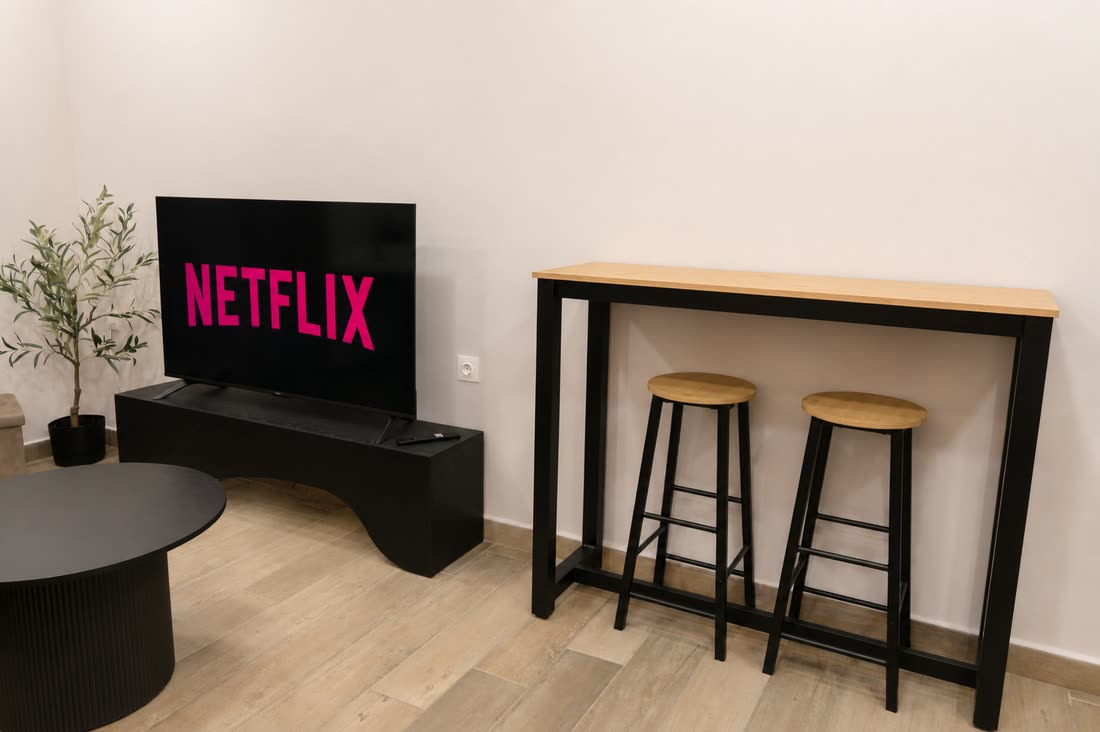
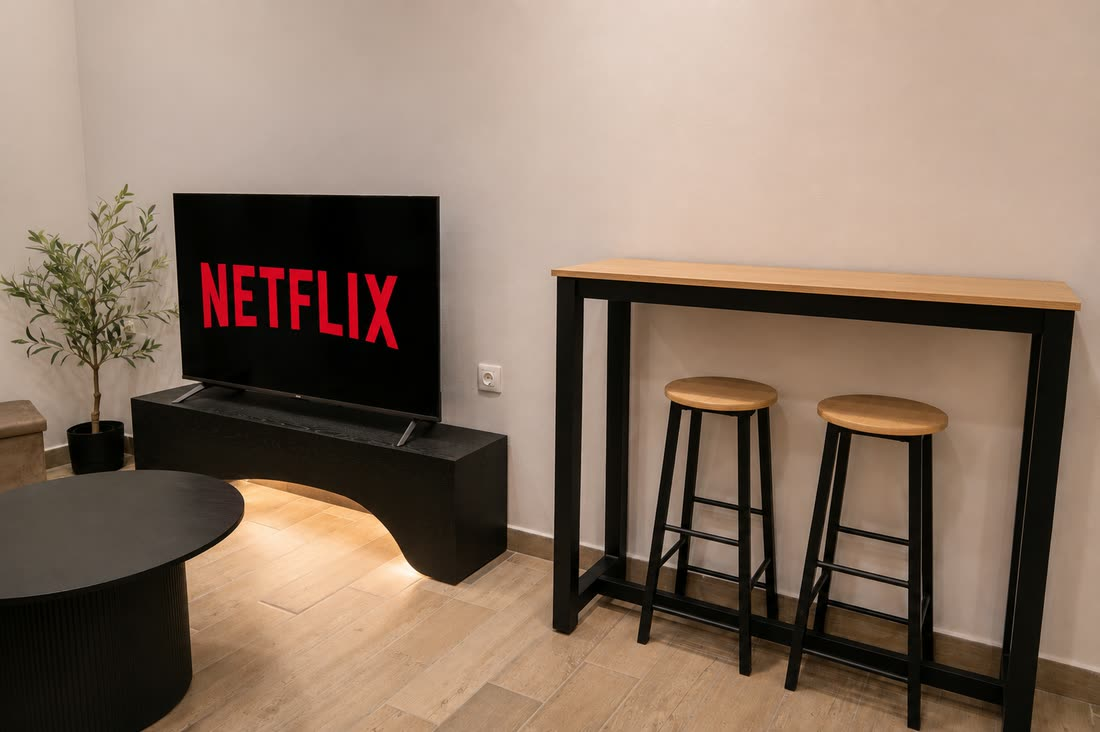
Swap in the reshot living room and add the balcony
The hero and the bar shot were retaken with the plinth lighting on, and the
balcony off the main bedroom was missing entirely — the guide now sends guests
there to smoke and to hang washing, so it needed a photograph.

diff --git a/index.html b/index.html
@@ -166,7 +166,7 @@ footer .arch{width:34px;height:26px;margin:0 auto 8px}
 <section id="gallery"><div class="wrap">
   <div class="eyebrow" data-i18n="gallery_eyebrow">Gallery</div>
   <h2 class="serif" style="font-size:clamp(28px,4vw,40px);margin:10px 0 26px" data-i18n="gallery_h2">Take a look inside</h2>
-  <div class="gal"><a class="gitem" href="assets/img/gal-01.jpg" target="_blank" rel="noopener"><img loading="lazy" decoding="async" src="assets/img/gal-01.jpg" alt="Bedroom with wardrobe, smart TV and dressing table"></a><a class="gitem" href="assets/img/gal-02.jpg" target="_blank" rel="noopener"><img loading="lazy" decoding="async" src="assets/img/gal-02.jpg" alt="Kitchen with oven, hob and retro fridge"></a><a class="gitem" href="assets/img/gal-03.jpg" target="_blank" rel="noopener"><img loading="lazy" decoding="async" src="assets/img/gal-03.jpg" alt="Living room smart TV and breakfast bar"></a><a class="gitem" href="assets/img/gal-04.jpg" target="_blank" rel="noopener"><img loading="lazy" decoding="async" src="assets/img/gal-04.jpg" alt="Double bed with framed prints above the headboard"></a><a class="gitem" href="assets/img/gal-05.jpg" target="_blank" rel="noopener"><img loading="lazy" decoding="async" src="assets/img/gal-05.jpg" alt="Main bedroom seen from the doorway"></a><a class="gitem" href="assets/img/gal-06.jpg" target="_blank" rel="noopener"><img loading="lazy" decoding="async" src="assets/img/gal-06.jpg" alt="Open-plan living room, breakfast bar and hallway"></a><a class="gitem" href="assets/img/gal-07.jpg" target="_blank" rel="noopener"><img loading="lazy" decoding="async" src="assets/img/gal-07.jpg" alt="Crisp white bed linen and knitted throw"></a><a class="gitem" href="assets/img/gal-08.jpg" target="_blank" rel="noopener"><img loading="lazy" decoding="async" src="assets/img/gal-08.jpg" alt="Second bedroom with reading lamp"></a><a class="gitem" href="assets/img/gal-09.jpg" target="_blank" rel="noopener"><img loading="lazy" decoding="async" src="assets/img/gal-09.jpg" alt="Kitchen and sofa with exposed brick archway"></a><a class="gitem" href="assets/img/gal-10.jpg" target="_blank" rel="noopener"><img loading="lazy" decoding="async" src="assets/img/gal-10.jpg" alt="Living area with sofa and smart TV"></a><a class="gitem" href="assets/img/gal-11.jpg" target="_blank" rel="noopener"><img loading="lazy" decoding="async" src="assets/img/gal-11.jpg" alt="Walk-in shower with rain head"></a><a class="gitem" href="assets/img/gal-12.jpg" target="_blank" rel="noopener"><img loading="lazy" decoding="async" src="assets/img/gal-12.jpg" alt="Bathroom with washing machine, basin and shower"></a><a class="gitem" href="assets/img/gal-13.jpg" target="_blank" rel="noopener"><img loading="lazy" decoding="async" src="assets/img/gal-13.jpg" alt="Bedroom with double bed and full-height wardrobe"></a><a class="gitem" href="assets/img/gal-14.jpg" target="_blank" rel="noopener"><img loading="lazy" decoding="async" src="assets/img/gal-14.jpg" alt="Worktop with hob, kettle and coffee machine"></a><a class="gitem" href="assets/img/gal-15.jpg" target="_blank" rel="noopener"><img loading="lazy" decoding="async" src="assets/img/gal-15.jpg" alt="Bedside table with lamp"></a><a class="gitem" href="assets/img/gal-16.jpg" target="_blank" rel="noopener"><img loading="lazy" decoding="async" src="assets/img/gal-16.jpg" alt="Sofa bed in the second room"></a><a class="gitem" href="assets/img/gal-17.jpg" target="_blank" rel="noopener"><img loading="lazy" decoding="async" src="assets/img/gal-17.jpg" alt="Hallway connecting the two bedrooms"></a><a class="gitem" href="assets/img/gal-18.jpg" target="_blank" rel="noopener"><img loading="lazy" decoding="async" src="assets/img/gal-18.jpg" alt="Second bedroom with air conditioning"></a><a class="gitem" href="assets/img/gal-19.jpg" target="_blank" rel="noopener"><img loading="lazy" decoding="async" src="assets/img/gal-19.jpg" alt="Entrance hallway with exposed brick wall"></a><a class="gitem" href="assets/img/gal-20.jpg" target="_blank" rel="noopener"><img loading="lazy" decoding="async" src="assets/img/gal-20.jpg" alt="Double bed made up with fresh towels"></a><a class="gitem" href="assets/img/gal-21.jpg" target="_blank" rel="noopener"><img loading="lazy" decoding="async" src="assets/img/gal-21.jpg" alt="Rolled towels laid out on the bed"></a><a class="gitem" href="assets/img/gal-22.jpg" target="_blank" rel="noopener"><img loading="lazy" decoding="async" src="assets/img/gal-22.jpg" alt="Books and lighting on the headboard shelf"></a><a class="gitem" href="assets/img/gal-23.jpg" target="_blank" rel="noopener"><img loading="lazy" decoding="async" src="assets/img/gal-23.jpg" alt="Washing machine beside the bathroom door"></a><a class="gitem" href="assets/img/gal-24.jpg" target="_blank" rel="noopener"><img loading="lazy" decoding="async" src="assets/img/gal-24.jpg" alt="Sofa with cushions and throw in the living room"></a><a class="gitem" href="assets/img/gal-25.jpg" target="_blank" rel="noopener"><img loading="lazy" decoding="async" src="assets/img/gal-25.jpg" alt="Living room with smart TV and seating"></a><a class="gitem" href="assets/img/gal-26.jpg" target="_blank" rel="noopener"><img loading="lazy" decoding="async" src="assets/img/gal-26.jpg" alt="Bedroom with wall-mounted TV and towels"></a><a class="gitem" href="assets/img/gal-27.jpg" target="_blank" rel="noopener"><img loading="lazy" decoding="async" src="assets/img/gal-27.jpg" alt="Clothes rail and storage"></a><a class="gitem" href="assets/img/gal-28.jpg" target="_blank" rel="noopener"><img loading="lazy" decoding="async" src="assets/img/gal-28.jpg" alt="Smart TV and olive tree in the living room"></a><a class="gitem" href="assets/img/gal-29.jpg" target="_blank" rel="noopener"><img loading="lazy" decoding="async" src="assets/img/gal-29.jpg" alt="Coffee corner with kettle and Nespresso machine"></a><a class="gitem" href="assets/img/gal-30.jpg" target="_blank" rel="noopener"><img loading="lazy" decoding="async" src="assets/img/gal-30.jpg" alt="Welcome card and plant on the worktop"></a><a class="gitem" href="assets/img/gal-31.jpg" target="_blank" rel="noopener"><img loading="lazy" decoding="async" src="assets/img/gal-31.jpg" alt="Shelf and round mirror on the brick wall"></a><a class="gitem" href="assets/img/gal-32.jpg" target="_blank" rel="noopener"><img loading="lazy" decoding="async" src="assets/img/gal-32.jpg" alt="Backlit bathroom mirror"></a><a class="gitem" href="assets/img/gal-33.jpg" target="_blank" rel="noopener"><img loading="lazy" decoding="async" src="assets/img/gal-33.jpg" alt="Living room in the evening light"></a><a class="gitem" href="assets/img/gal-34.jpg" target="_blank" rel="noopener"><img loading="lazy" decoding="async" src="assets/img/gal-34.jpg" alt="Fresh towels on the bathroom counter"></a><a class="gitem" href="assets/img/gal-35.jpg" target="_blank" rel="noopener"><img loading="lazy" decoding="async" src="assets/img/gal-35.jpg" alt="Cupboard stocked with plates, glasses and mugs"></a><a class="gitem" href="assets/img/gal-36.jpg" target="_blank" rel="noopener"><img loading="lazy" decoding="async" src="assets/img/gal-36.jpg" alt="Rain shower head"></a><a class="gitem" href="assets/img/gal-37.jpg" target="_blank" rel="noopener"><img loading="lazy" decoding="async" src="assets/img/gal-37.jpg" alt="Sofa bed with cushion"></a><a class="gitem" href="assets/img/gal-38.jpg" target="_blank" rel="noopener"><img loading="lazy" decoding="async" src="assets/img/gal-38.jpg" alt="Hallway leading to the front door"></a><a class="gitem" href="assets/img/gal-39.jpg" target="_blank" rel="noopener"><img loading="lazy" decoding="async" src="assets/img/gal-39.jpg" alt="Hangers in the wardrobe"></a><a class="gitem" href="assets/img/gal-40.jpg" target="_blank" rel="noopener"><img loading="lazy" decoding="async" src="assets/img/gal-40.jpg" alt="Towels folded on the rack"></a><a class="gitem" href="assets/img/gal-41.jpg" target="_blank" rel="noopener"><img loading="lazy" decoding="async" src="assets/img/gal-41.jpg" alt="Plates and crockery in the kitchen cupboard"></a></div></div></section>
+  <div class="gal"><a class="gitem" href="assets/img/gal-01.jpg" target="_blank" rel="noopener"><img loading="lazy" decoding="async" src="assets/img/gal-01.jpg" alt="Bedroom with wardrobe, smart TV and dressing table"></a><a class="gitem" href="assets/img/gal-02.jpg" target="_blank" rel="noopener"><img loading="lazy" decoding="async" src="assets/img/gal-02.jpg" alt="Kitchen with oven, hob and retro fridge"></a><a class="gitem" href="assets/img/gal-03.jpg" target="_blank" rel="noopener"><img loading="lazy" decoding="async" src="assets/img/gal-03.jpg" alt="Smart TV and breakfast bar with stools"></a><a class="gitem" href="assets/img/gal-04.jpg" target="_blank" rel="noopener"><img loading="lazy" decoding="async" src="assets/img/gal-04.jpg" alt="Double bed with framed prints above the headboard"></a><a class="gitem" href="assets/img/gal-05.jpg" target="_blank" rel="noopener"><img loading="lazy" decoding="async" src="assets/img/gal-05.jpg" alt="Main bedroom seen from the doorway"></a><a class="gitem" href="assets/img/gal-06.jpg" target="_blank" rel="noopener"><img loading="lazy" decoding="async" src="assets/img/gal-06.jpg" alt="Open-plan living room, breakfast bar and hallway"></a><a class="gitem" href="assets/img/gal-07.jpg" target="_blank" rel="noopener"><img loading="lazy" decoding="async" src="assets/img/gal-07.jpg" alt="Crisp white bed linen and knitted throw"></a><a class="gitem" href="assets/img/gal-08.jpg" target="_blank" rel="noopener"><img loading="lazy" decoding="async" src="assets/img/gal-08.jpg" alt="Second bedroom with reading lamp"></a><a class="gitem" href="assets/img/gal-09.jpg" target="_blank" rel="noopener"><img loading="lazy" decoding="async" src="assets/img/gal-09.jpg" alt="Kitchen and sofa with exposed brick archway"></a><a class="gitem" href="assets/img/gal-10.jpg" target="_blank" rel="noopener"><img loading="lazy" decoding="async" src="assets/img/gal-10.jpg" alt="Living area with sofa and smart TV"></a><a class="gitem" href="assets/img/gal-11.jpg" target="_blank" rel="noopener"><img loading="lazy" decoding="async" src="assets/img/gal-11.jpg" alt="Walk-in shower with rain head"></a><a class="gitem" href="assets/img/gal-12.jpg" target="_blank" rel="noopener"><img loading="lazy" decoding="async" src="assets/img/gal-12.jpg" alt="Bathroom with washing machine, basin and shower"></a><a class="gitem" href="assets/img/gal-13.jpg" target="_blank" rel="noopener"><img loading="lazy" decoding="async" src="assets/img/gal-13.jpg" alt="Bedroom with double bed and full-height wardrobe"></a><a class="gitem" href="assets/img/gal-14.jpg" target="_blank" rel="noopener"><img loading="lazy" decoding="async" src="assets/img/gal-14.jpg" alt="Worktop with hob, kettle and coffee machine"></a><a class="gitem" href="assets/img/gal-15.jpg" target="_blank" rel="noopener"><img loading="lazy" decoding="async" src="assets/img/gal-15.jpg" alt="Bedside table with lamp"></a><a class="gitem" href="assets/img/gal-16.jpg" target="_blank" rel="noopener"><img loading="lazy" decoding="async" src="assets/img/gal-16.jpg" alt="Sofa bed in the second room"></a><a class="gitem" href="assets/img/gal-17.jpg" target="_blank" rel="noopener"><img loading="lazy" decoding="async" src="assets/img/gal-17.jpg" alt="Hallway connecting the two bedrooms"></a><a class="gitem" href="assets/img/gal-18.jpg" target="_blank" rel="noopener"><img loading="lazy" decoding="async" src="assets/img/gal-18.jpg" alt="Second bedroom with air conditioning"></a><a class="gitem" href="assets/img/gal-19.jpg" target="_blank" rel="noopener"><img loading="lazy" decoding="async" src="assets/img/gal-19.jpg" alt="Entrance hallway with exposed brick wall"></a><a class="gitem" href="assets/img/gal-20.jpg" target="_blank" rel="noopener"><img loading="lazy" decoding="async" src="assets/img/gal-20.jpg" alt="Double bed made up with fresh towels"></a><a class="gitem" href="assets/img/gal-21.jpg" target="_blank" rel="noopener"><img loading="lazy" decoding="async" src="assets/img/gal-21.jpg" alt="Rolled towels laid out on the bed"></a><a class="gitem" href="assets/img/gal-22.jpg" target="_blank" rel="noopener"><img loading="lazy" decoding="async" src="assets/img/gal-22.jpg" alt="Books and lighting on the headboard shelf"></a><a class="gitem" href="assets/img/gal-23.jpg" target="_blank" rel="noopener"><img loading="lazy" decoding="async" src="assets/img/gal-23.jpg" alt="Washing machine beside the bathroom door"></a><a class="gitem" href="assets/img/gal-24.jpg" target="_blank" rel="noopener"><img loading="lazy" decoding="async" src="assets/img/gal-24.jpg" alt="Sofa with cushions and throw in the living room"></a><a class="gitem" href="assets/img/gal-25.jpg" target="_blank" rel="noopener"><img loading="lazy" decoding="async" src="assets/img/gal-25.jpg" alt="Living room with smart TV and seating"></a><a class="gitem" href="assets/img/gal-26.jpg" target="_blank" rel="noopener"><img loading="lazy" decoding="async" src="assets/img/gal-26.jpg" alt="Bedroom with wall-mounted TV and towels"></a><a class="gitem" href="assets/img/gal-27.jpg" target="_blank" rel="noopener"><img loading="lazy" decoding="async" src="assets/img/gal-27.jpg" alt="Clothes rail and storage"></a><a class="gitem" href="assets/img/gal-28.jpg" target="_blank" rel="noopener"><img loading="lazy" decoding="async" src="assets/img/gal-28.jpg" alt="Smart TV and olive tree in the living room"></a><a class="gitem" href="assets/img/gal-29.jpg" target="_blank" rel="noopener"><img loading="lazy" decoding="async" src="assets/img/gal-29.jpg" alt="Coffee corner with kettle and Nespresso machine"></a><a class="gitem" href="assets/img/gal-30.jpg" target="_blank" rel="noopener"><img loading="lazy" decoding="async" src="assets/img/gal-30.jpg" alt="Welcome card and plant on the worktop"></a><a class="gitem" href="assets/img/gal-31.jpg" target="_blank" rel="noopener"><img loading="lazy" decoding="async" src="assets/img/gal-31.jpg" alt="Shelf and round mirror on the brick wall"></a><a class="gitem" href="assets/img/gal-32.jpg" target="_blank" rel="noopener"><img loading="lazy" decoding="async" src="assets/img/gal-32.jpg" alt="Backlit bathroom mirror"></a><a class="gitem" href="assets/img/gal-33.jpg" target="_blank" rel="noopener"><img loading="lazy" decoding="async" src="assets/img/gal-33.jpg" alt="Living room in the evening light"></a><a class="gitem" href="assets/img/gal-34.jpg" target="_blank" rel="noopener"><img loading="lazy" decoding="async" src="assets/img/gal-34.jpg" alt="Fresh towels on the bathroom counter"></a><a class="gitem" href="assets/img/gal-35.jpg" target="_blank" rel="noopener"><img loading="lazy" decoding="async" src="assets/img/gal-35.jpg" alt="Cupboard stocked with plates, glasses and mugs"></a><a class="gitem" href="assets/img/gal-36.jpg" target="_blank" rel="noopener"><img loading="lazy" decoding="async" src="assets/img/gal-36.jpg" alt="Rain shower head"></a><a class="gitem" href="assets/img/gal-37.jpg" target="_blank" rel="noopener"><img loading="lazy" decoding="async" src="assets/img/gal-37.jpg" alt="Sofa bed with cushion"></a><a class="gitem" href="assets/img/gal-38.jpg" target="_blank" rel="noopener"><img loading="lazy" decoding="async" src="assets/img/gal-38.jpg" alt="Hallway leading to the front door"></a><a class="gitem" href="assets/img/gal-39.jpg" target="_blank" rel="noopener"><img loading="lazy" decoding="async" src="assets/img/gal-39.jpg" alt="Hangers in the wardrobe"></a><a class="gitem" href="assets/img/gal-40.jpg" target="_blank" rel="noopener"><img loading="lazy" decoding="async" src="assets/img/gal-40.jpg" alt="Towels folded on the rack"></a><a class="gitem" href="assets/img/gal-41.jpg" target="_blank" rel="noopener"><img loading="lazy" decoding="async" src="assets/img/gal-41.jpg" alt="Plates and crockery in the kitchen cupboard"></a><a class="gitem" href="assets/img/gal-42.jpg" target="_blank" rel="noopener"><img loading="lazy" decoding="async" src="assets/img/gal-42.jpg" alt="Small balcony off the main bedroom"></a></div></div></section>
 <section id="location" style="background:var(--paper2)"><div class="wrap loc-wrap">
   <div><div class="eyebrow" data-i18n="location_eyebrow">Location</div>
     <h2 class="serif" style="font-size:clamp(28px,4vw,40px);margin:10px 0 6px" data-i18n="location_h2">In the middle of it all</h2>
